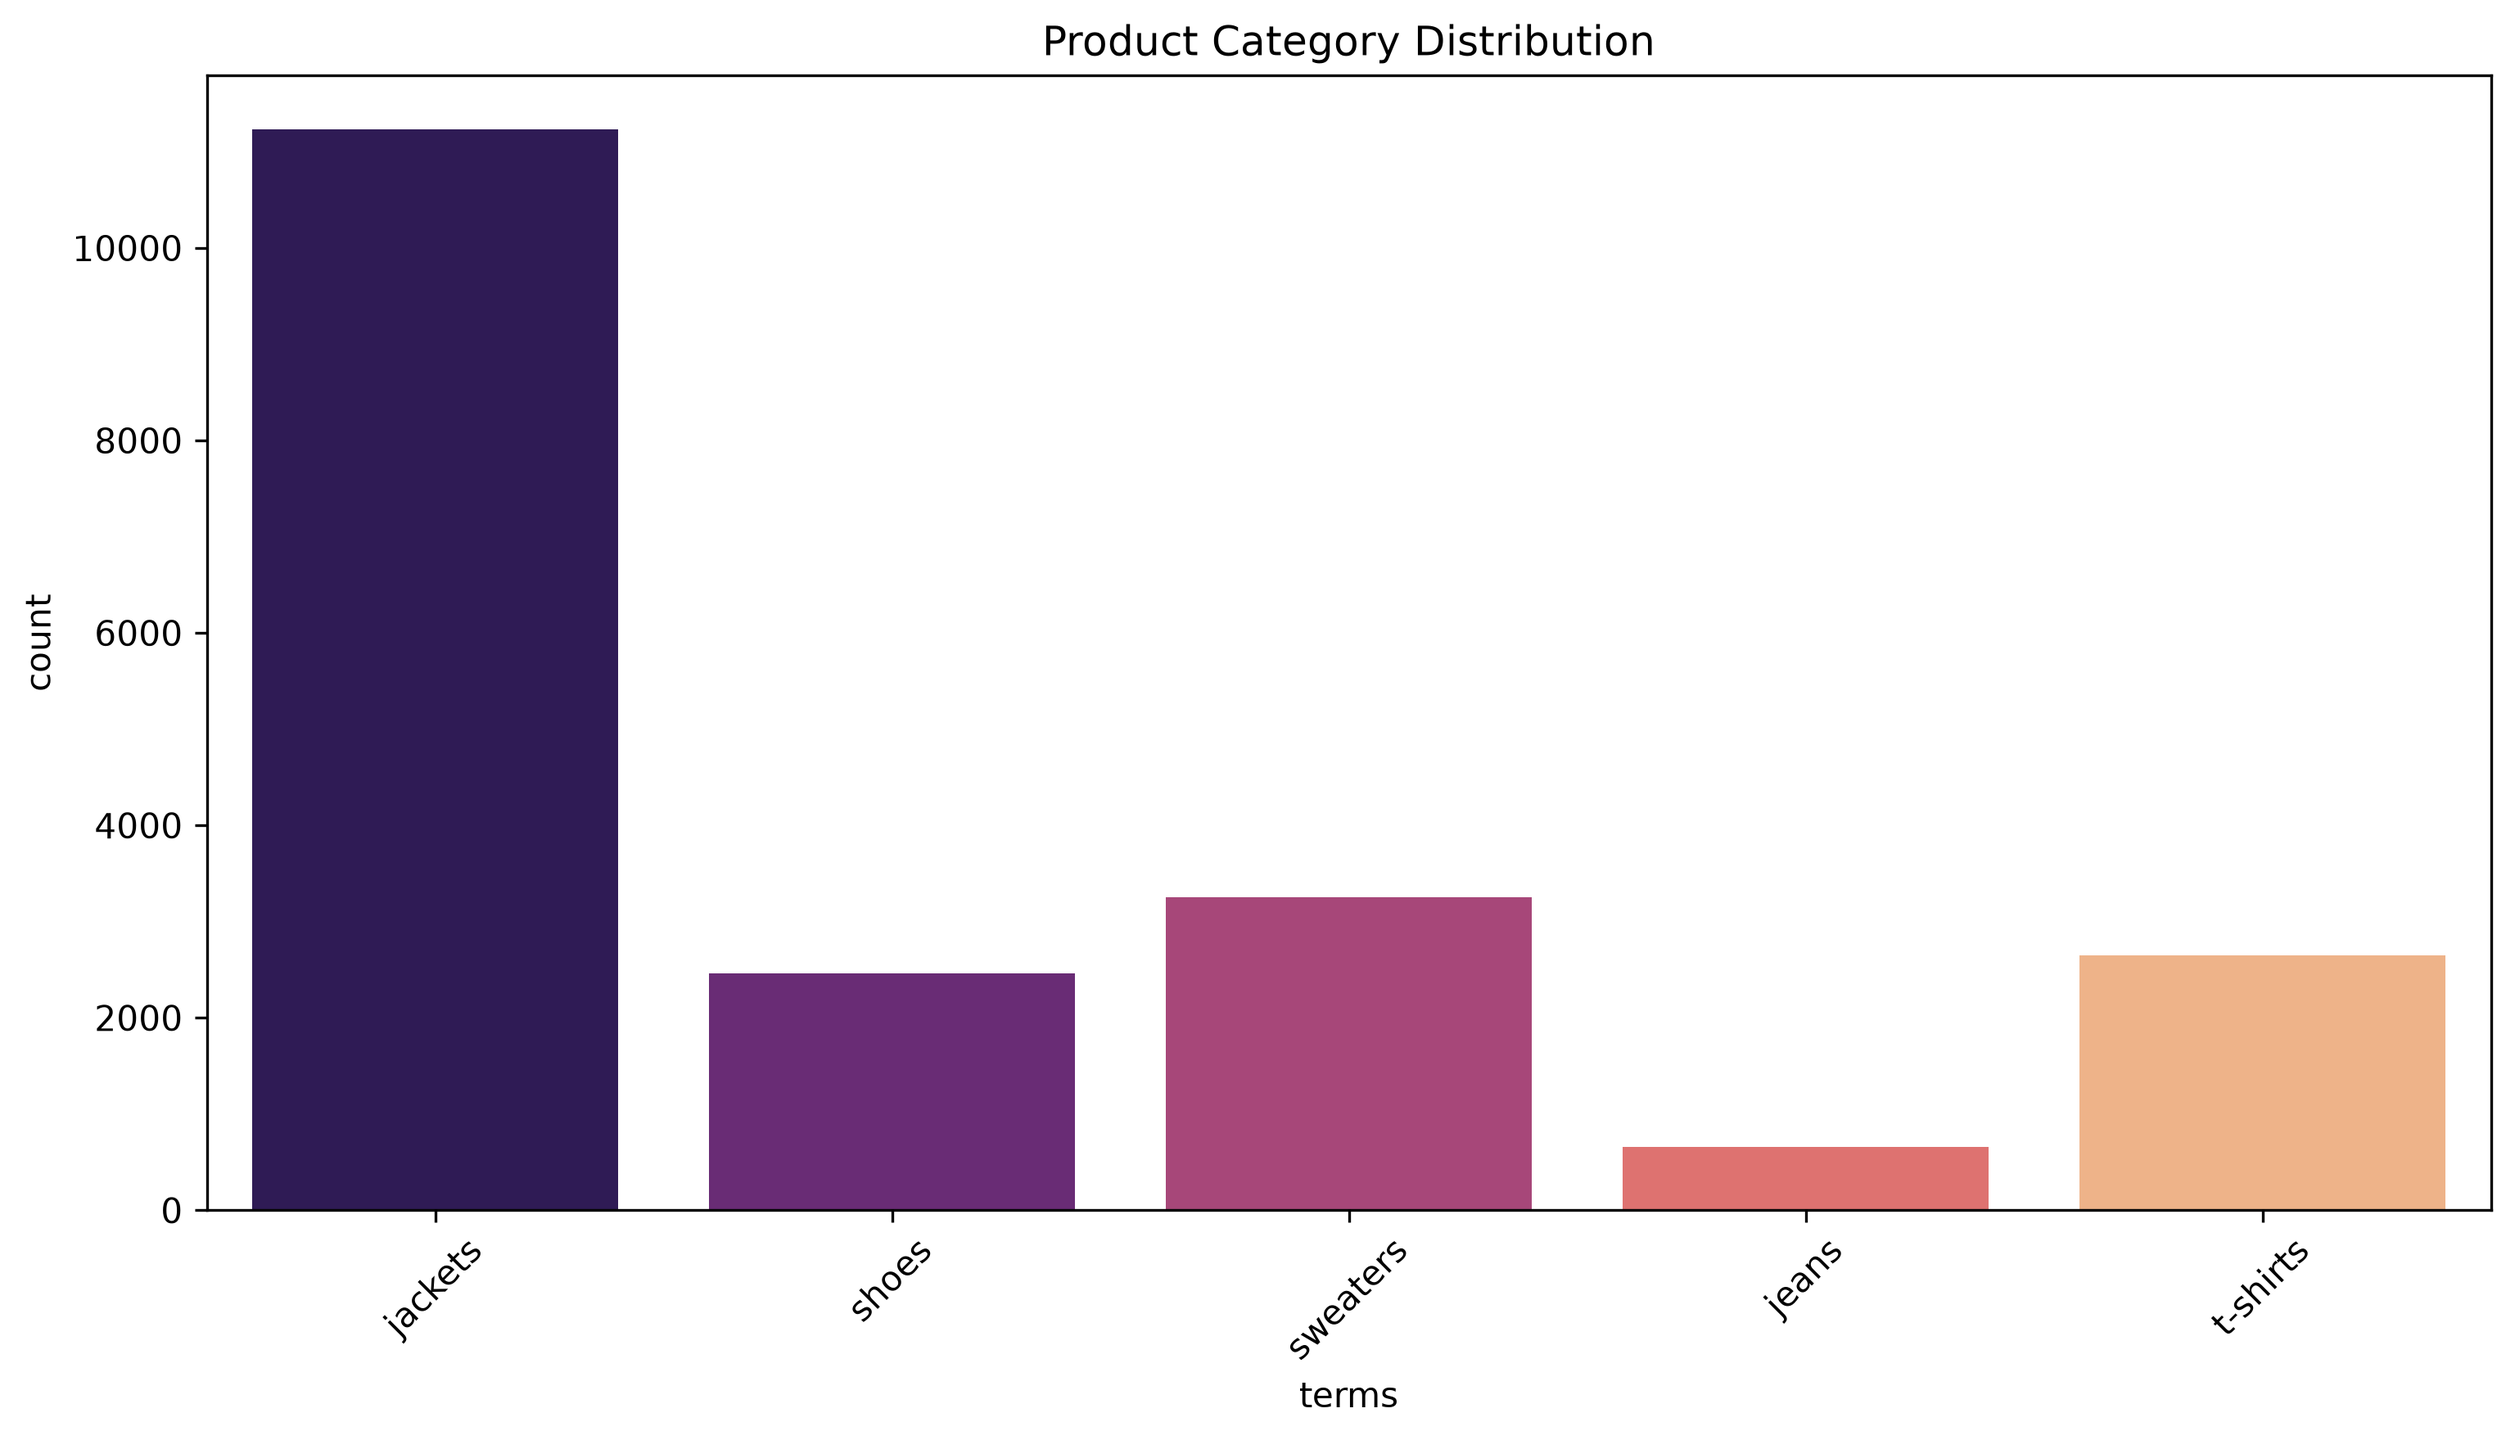
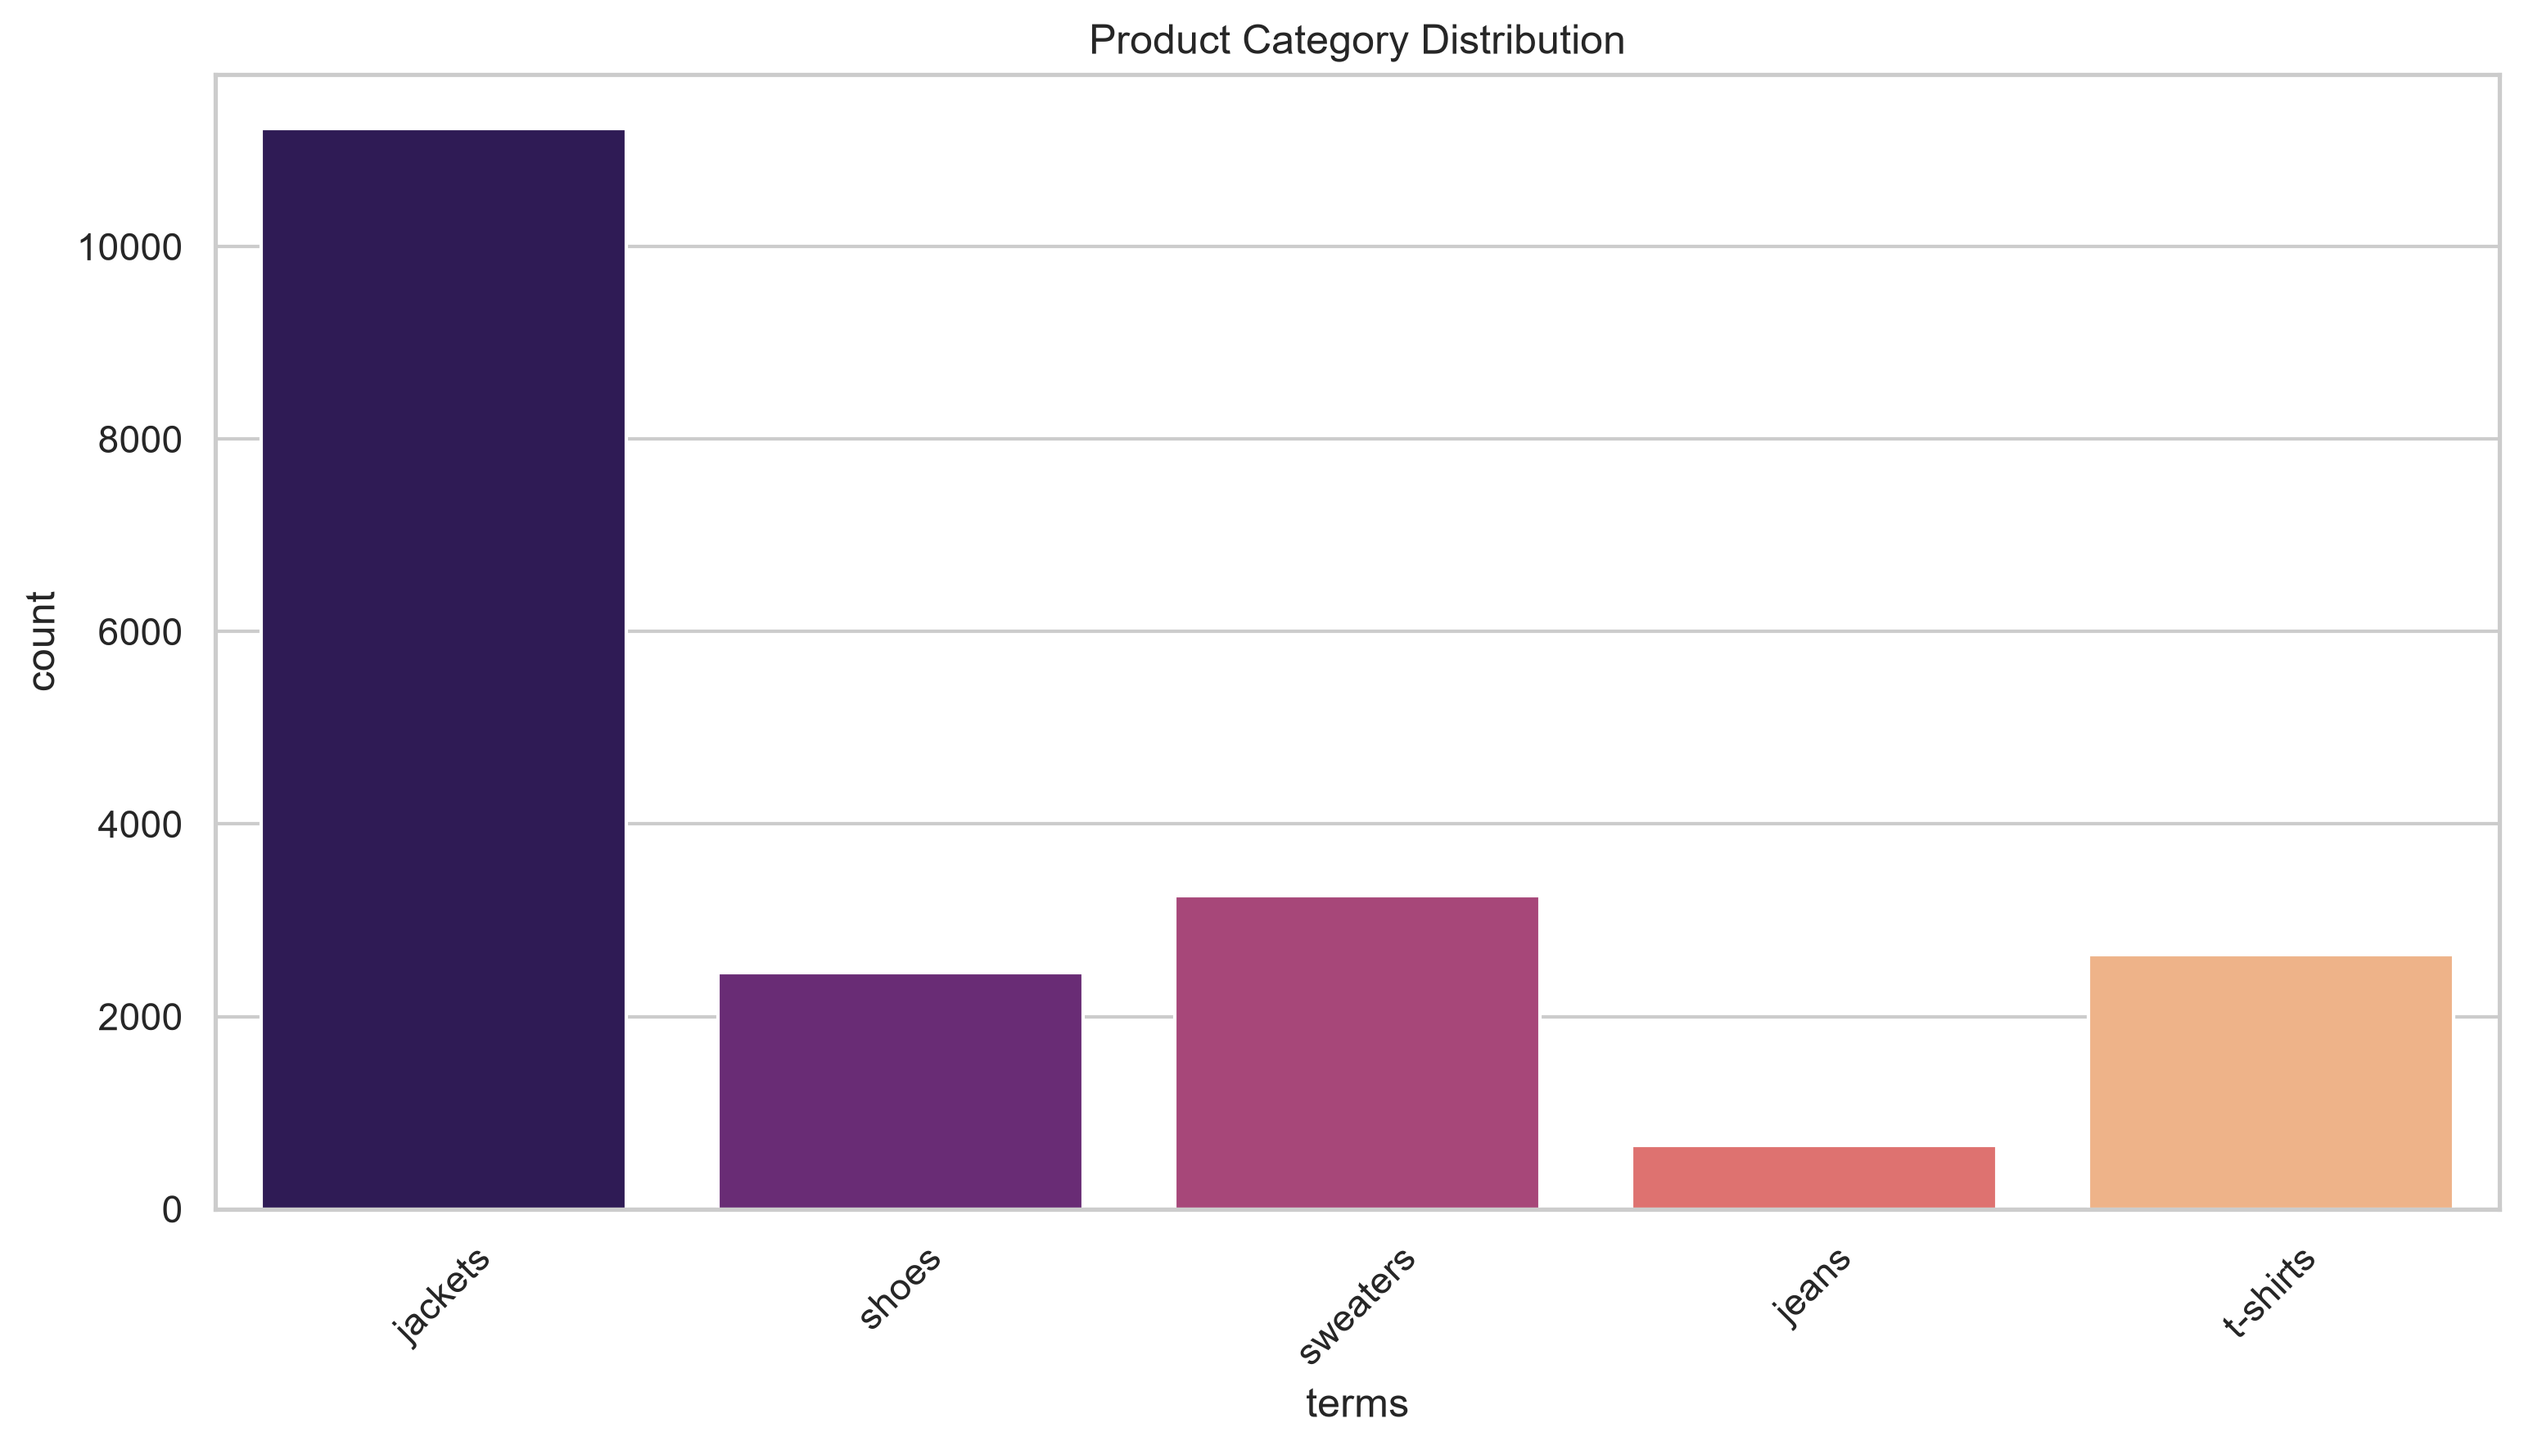
updating my visualisations.py file to wrap it all into one function so i can call it in my jupyter notebook

diff --git a/src/visualisations.py b/src/visualisations.py
@@ -1,9 +1,6 @@
-#Purpose : This file contains reusable Plotly, Matplotlib, or Seaborn chart functions, such as: time-series charts, bar charts,
-#scatter plots, box plots, customer segmentation visuals
-
-#--------------------------------------------------------
-#IMPORTING LIBRARIES FOR CLEANING AND VISUALIZING DATA
-#--------------------------------------------------------
+# --------------------------------------------------------
+# VISUALISATIONS MODULE (MODULAR VERSION)
+# --------------------------------------------------------
 
 import os
 import matplotlib.pyplot as plt
@@ -11,9 +8,11 @@ import seaborn as sns
 import pandas as pd
 import numpy as np
 
-# ---------------------------------------------------------
+sns.set(style="whitegrid")
+
+# --------------------------------------------------------
 # SAVE FUNCTION
-# ---------------------------------------------------------
+# --------------------------------------------------------
 
 def save_plot(fig, filename):
     visuals_path = os.path.join(os.path.dirname(__file__), "..", "visuals", "eda")
@@ -22,10 +21,11 @@ def save_plot(fig, filename):
     full_path = os.path.join(visuals_path, filename)
     fig.savefig(full_path, dpi=300, bbox_inches='tight')
     plt.close(fig)
+    print(f"Saved: {os.path.normpath(full_path)}")
 
-# ---------------------------------------------------------
-# REBUILD PRODUCT POSITION (because OHE removed it)
-# ---------------------------------------------------------
+# --------------------------------------------------------
+# REBUILD PRODUCT POSITION (for visuals)
+# --------------------------------------------------------
 
 def rebuild_product_position(df):
     position_cols = [col for col in df.columns if col.startswith("product_position_")]
@@ -42,13 +42,9 @@ def rebuild_product_position(df):
 
     return df
 
-# ---------------------------------------------------------
-# INDIVIDUAL PLOT FUNCTIONS
-# ---------------------------------------------------------
-
-#---------------------------------------------------------
-#1. PLOT SALES VOLUME DISTRIBUTION  
-#---------------------------------------------------------
+# --------------------------------------------------------
+# 1. SALES VOLUME DISTRIBUTION
+# --------------------------------------------------------
 
 def plot_sales_volume_distribution(df):
     fig, ax = plt.subplots(figsize=(10,6))
@@ -59,9 +55,9 @@ def plot_sales_volume_distribution(df):
 
     save_plot(fig, "sales_volume_distribution.png")
 
-#---------------------------------------------------------
-#2. PLOT PRICE DISTRIBUTION
-#---------------------------------------------------------
+# --------------------------------------------------------
+# 2. PRICE DISTRIBUTION + BOXPLOT
+# --------------------------------------------------------
 
 def plot_price_distribution(df):
     fig, ax = plt.subplots(1, 2, figsize=(14,6))
@@ -73,9 +69,9 @@ def plot_price_distribution(df):
 
     save_plot(fig, "price_distribution.png")
 
-#---------------------------------------------------------
-#3. PLOT PRODUCT CATEGORY DISTRIBUTION
-#---------------------------------------------------------
+# --------------------------------------------------------
+# 3. PRODUCT CATEGORY DISTRIBUTION
+# --------------------------------------------------------
 
 def plot_product_category(df):
     fig, ax = plt.subplots(figsize=(12,6))
@@ -85,28 +81,26 @@ def plot_product_category(df):
 
     save_plot(fig, "product_category_distribution.png")
 
-#---------------------------------------------------------
-#4. PLOT PROMOTION VS SALES VOLUME
-#---------------------------------------------------------
+# --------------------------------------------------------
+# 4. PROMOTION VS SALES VOLUME
+# --------------------------------------------------------
 
 def plot_promotion_vs_sales(df):
     fig, ax = plt.subplots(figsize=(10,6))
-    sns.boxplot(data=df, x='promotion', y='sales_volume', hue='promotion', palette='coolwarm', legend=False, ax=ax)
+    sns.boxplot(data=df, x='promotion', y='sales_volume', hue='promotion',
+                palette='coolwarm', legend=False, ax=ax)
     plt.title("Sales Volume by Promotion")
     plt.xlabel("Promotion (0 = No, 1 = Yes)")
     plt.ylabel("Sales Volume")
 
     save_plot(fig, "promotion_vs_sales_volume.png")
 
-#---------------------------------------------------------
-#5.CORRELATION HEATMAP  
-#---------------------------------------------------------
+# --------------------------------------------------------
+# 5. CORRELATION HEATMAP
+# --------------------------------------------------------
 
 def plot_correlation_heatmap(df):
-    # Select only numeric columns
     numeric_df = df.select_dtypes(include=['int64', 'float64'])
-
-    # Round correlation values to 2 decimal places
     corr = numeric_df.corr().round(2)
 
     fig, ax = plt.subplots(figsize=(12,8))
@@ -115,14 +109,15 @@ def plot_correlation_heatmap(df):
 
     save_plot(fig, "correlation_heatmap.png")
 
-#---------------------------------------------------------
-#6. SALES VOLUME BY CATEGORY
-#---------------------------------------------------------
+# --------------------------------------------------------
+# 6. SALES VOLUME BY CATEGORY
+# --------------------------------------------------------
 
 def plot_sales_volume_by_category(df):
     fig, ax = plt.subplots(figsize=(12,6))
     category_means = df.groupby('terms')['sales_volume'].mean().sort_values()
-    sns.barplot(x=category_means.index, y=category_means.values, palette='viridis', ax=ax)
+    sns.barplot(x=category_means.index, y=category_means.values,
+                palette='viridis', ax=ax)
     ax.set_title("Average Sales Volume by Product Category")
     ax.set_xlabel("Product Category")
     ax.set_ylabel("Average Sales Volume")
@@ -130,13 +125,14 @@ def plot_sales_volume_by_category(df):
 
     save_plot(fig, "sales_volume_by_category.png")
 
-#---------------------------------------------------------
-#7. SALES VOLUME BY PRODUCT POSITION
-#---------------------------------------------------------
+# --------------------------------------------------------
+# 7. SALES VOLUME BY PRODUCT POSITION
+# --------------------------------------------------------
 
 def plot_sales_volume_by_position(df):
     fig, ax = plt.subplots(figsize=(12,6))
-    sns.boxplot(data=df, x='product_position', y='sales_volume', palette='coolwarm', ax=ax)
+    sns.boxplot(data=df, x='product_position', y='sales_volume',
+                palette='coolwarm', ax=ax)
     ax.set_title("Sales Volume by Product Position")
     ax.set_xlabel("Product Position")
     ax.set_ylabel("Sales Volume")
@@ -144,37 +140,39 @@ def plot_sales_volume_by_position(df):
 
     save_plot(fig, "sales_volume_by_position.png")
 
-#---------------------------------------------------------
-#8. PROMOTION EFFECTIVENESS (AVERAGE SALES)
-#---------------------------------------------------------
+# --------------------------------------------------------
+# 8. PROMOTION EFFECTIVENESS
+# --------------------------------------------------------
 
 def plot_promotion_effectiveness(df):
     fig, ax = plt.subplots(figsize=(8,6))
     promo_means = df.groupby('promotion')['sales_volume'].mean()
-    sns.barplot(x=promo_means.index, y=promo_means.values, palette='coolwarm', ax=ax)
+    sns.barplot(x=promo_means.index, y=promo_means.values,
+                palette='coolwarm', ax=ax)
     ax.set_title("Promotion Effectiveness (Mean Sales Volume)")
     ax.set_xlabel("Promotion (0 = No, 1 = Yes)")
     ax.set_ylabel("Average Sales Volume")
 
     save_plot(fig, "promotion_effectiveness.png")
 
-#---------------------------------------------------------
-#9. PRICE vs. SALES VOLUME
-#---------------------------------------------------------
+# --------------------------------------------------------
+# 9. PRICE VS SALES VOLUME
+# --------------------------------------------------------
 
 def plot_price_vs_sales(df):
     fig, ax = plt.subplots(figsize=(10,6))
     sns.scatterplot(data=df, x='price', y='sales_volume', color='purple', ax=ax)
-    sns.regplot(data=df, x='price', y='sales_volume', scatter=False, color='black', ax=ax)
+    sns.regplot(data=df, x='price', y='sales_volume',
+                scatter=False, color='black', ax=ax)
     ax.set_title("Price vs Sales Volume")
     ax.set_xlabel("Price")
     ax.set_ylabel("Sales Volume")
 
     save_plot(fig, "price_vs_sales_volume.png")
 
-#---------------------------------------------------------
-#10. OUTLIER BOXPLOTS
-#---------------------------------------------------------
+# --------------------------------------------------------
+# 10. OUTLIER BOXPLOTS
+# --------------------------------------------------------
 
 def plot_outlier_boxplots(df):
     fig, ax = plt.subplots(1, 2, figsize=(14,6))
@@ -187,27 +185,25 @@ def plot_outlier_boxplots(df):
 
     save_plot(fig, "outlier_boxplots.png")
 
-#---------------------------------------------------------
-#11. PAIRPLOT OF KEY VARIABLES
-#---------------------------------------------------------
+# --------------------------------------------------------
+# 11. PAIRPLOT
+# --------------------------------------------------------
 
 def plot_pairplot(df):
     cols = ['price', 'sales_volume', 'promotion']
     fig = sns.pairplot(df[cols], diag_kind='kde', corner=True)
     fig.fig.suptitle("Pairplot of Key Variables", y=1.02)
 
-    # pairplot saving trick
-    pairplot_path = os.path.join(os.path.dirname(__file__), "..", "visuals", "eda", "pairplot.png")
-    fig.savefig(pairplot_path, dpi=300, bbox_inches='tight')
+    save_plot(fig.fig, "pairplot.png")
 
-    plt.close()
-
-
-# ---------------------------------------------------------
-# GENERATE ALL VISUALS
-# ---------------------------------------------------------
+# --------------------------------------------------------
+# 12. GENERATE ALL VISUALS (MAIN FUNCTION)
+# --------------------------------------------------------
 
 def generate_all_visuals(df):
+
+    df = rebuild_product_position(df)
+
     plot_price_distribution(df)
     plot_product_category(df)
     plot_promotion_vs_sales(df)
@@ -220,15 +216,13 @@ def generate_all_visuals(df):
     plot_outlier_boxplots(df)
     plot_pairplot(df)
 
-# ---------------------------------------------------------
-# RUN WHEN EXECUTED DIRECTLY
-# ---------------------------------------------------------
+    print("\n--- ALL EDA VISUALS SAVED TO /visuals/eda ---")
+
 
 if __name__ == "__main__":
-    cleaned_path = os.path.join(os.path.dirname(__file__), "..", "data", "cleaned-data", "cleaned_data.csv")
-    df = pd.read_csv(cleaned_path)
-
-    df = rebuild_product_position(df)
-
-    generate_all_visuals(df)
-    print("All EDA visuals saved to /visuals/eda folder.")
+    base_dir = os.path.dirname(os.path.abspath(__file__))
+    data_path = os.path.join(
+        base_dir, "..", "data", "cleaned-data", "cleaned_data.csv"
+    )
+    data = pd.read_csv(data_path)
+    generate_all_visuals(data)
